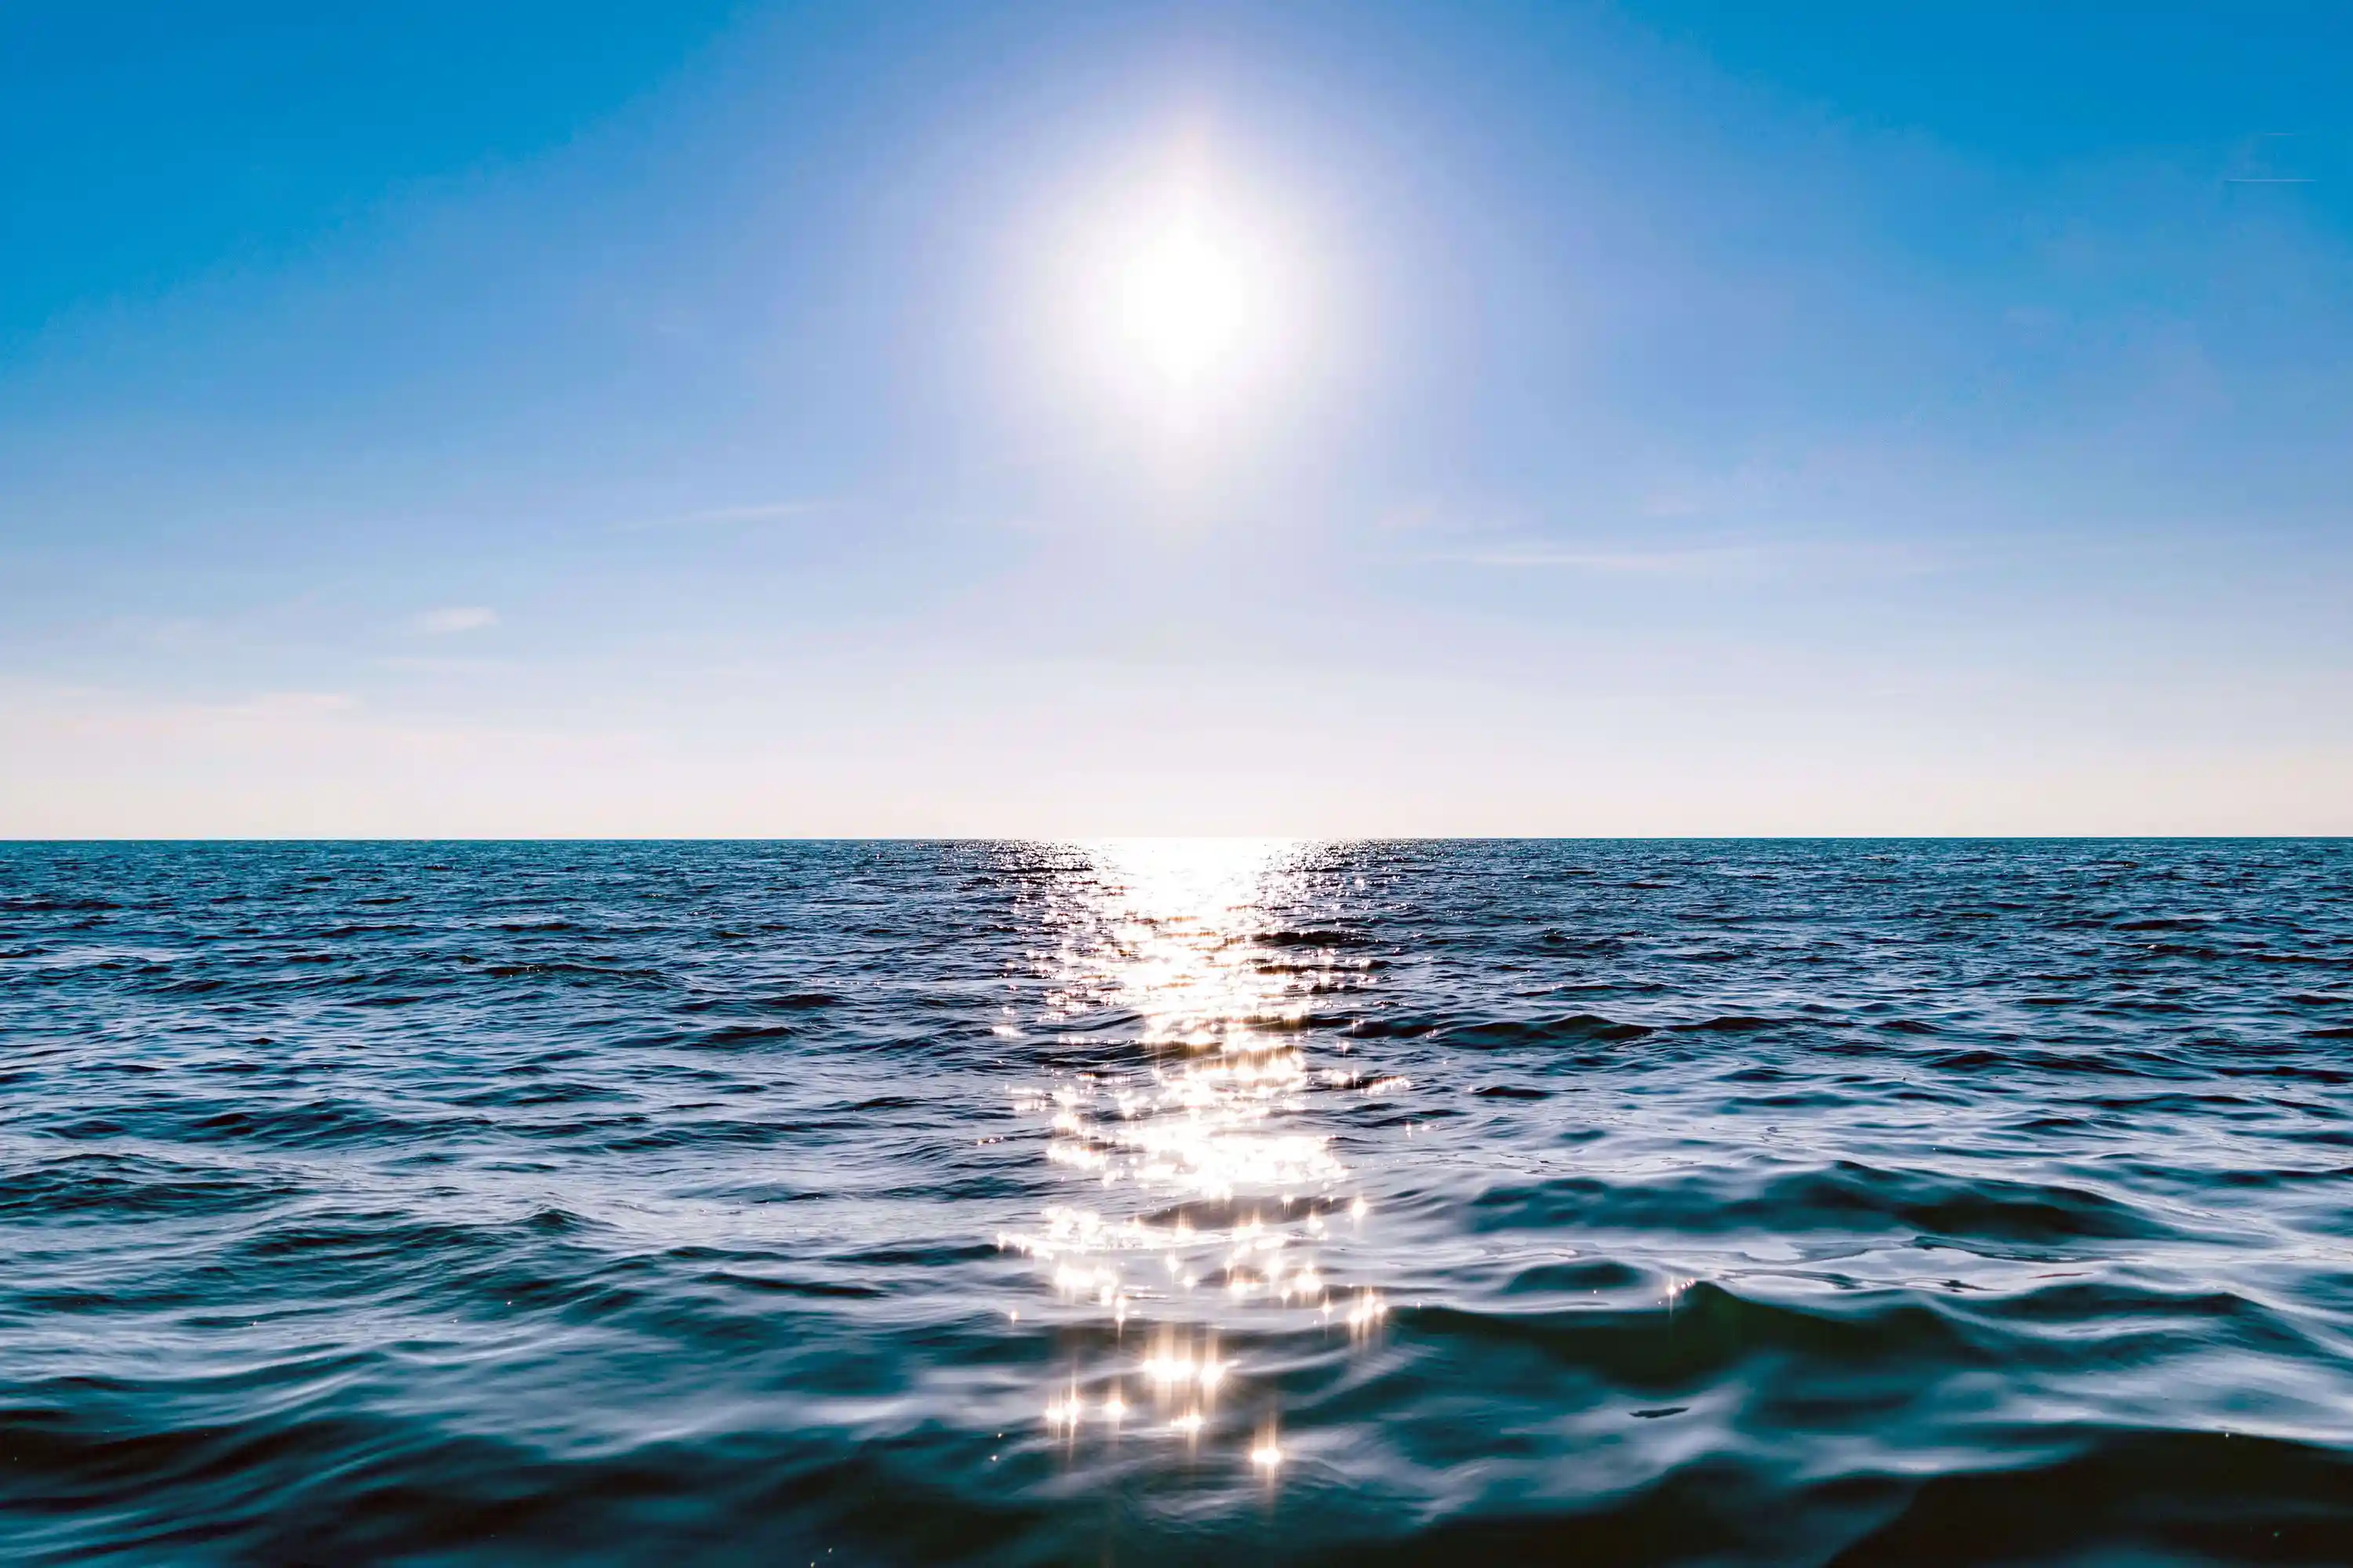
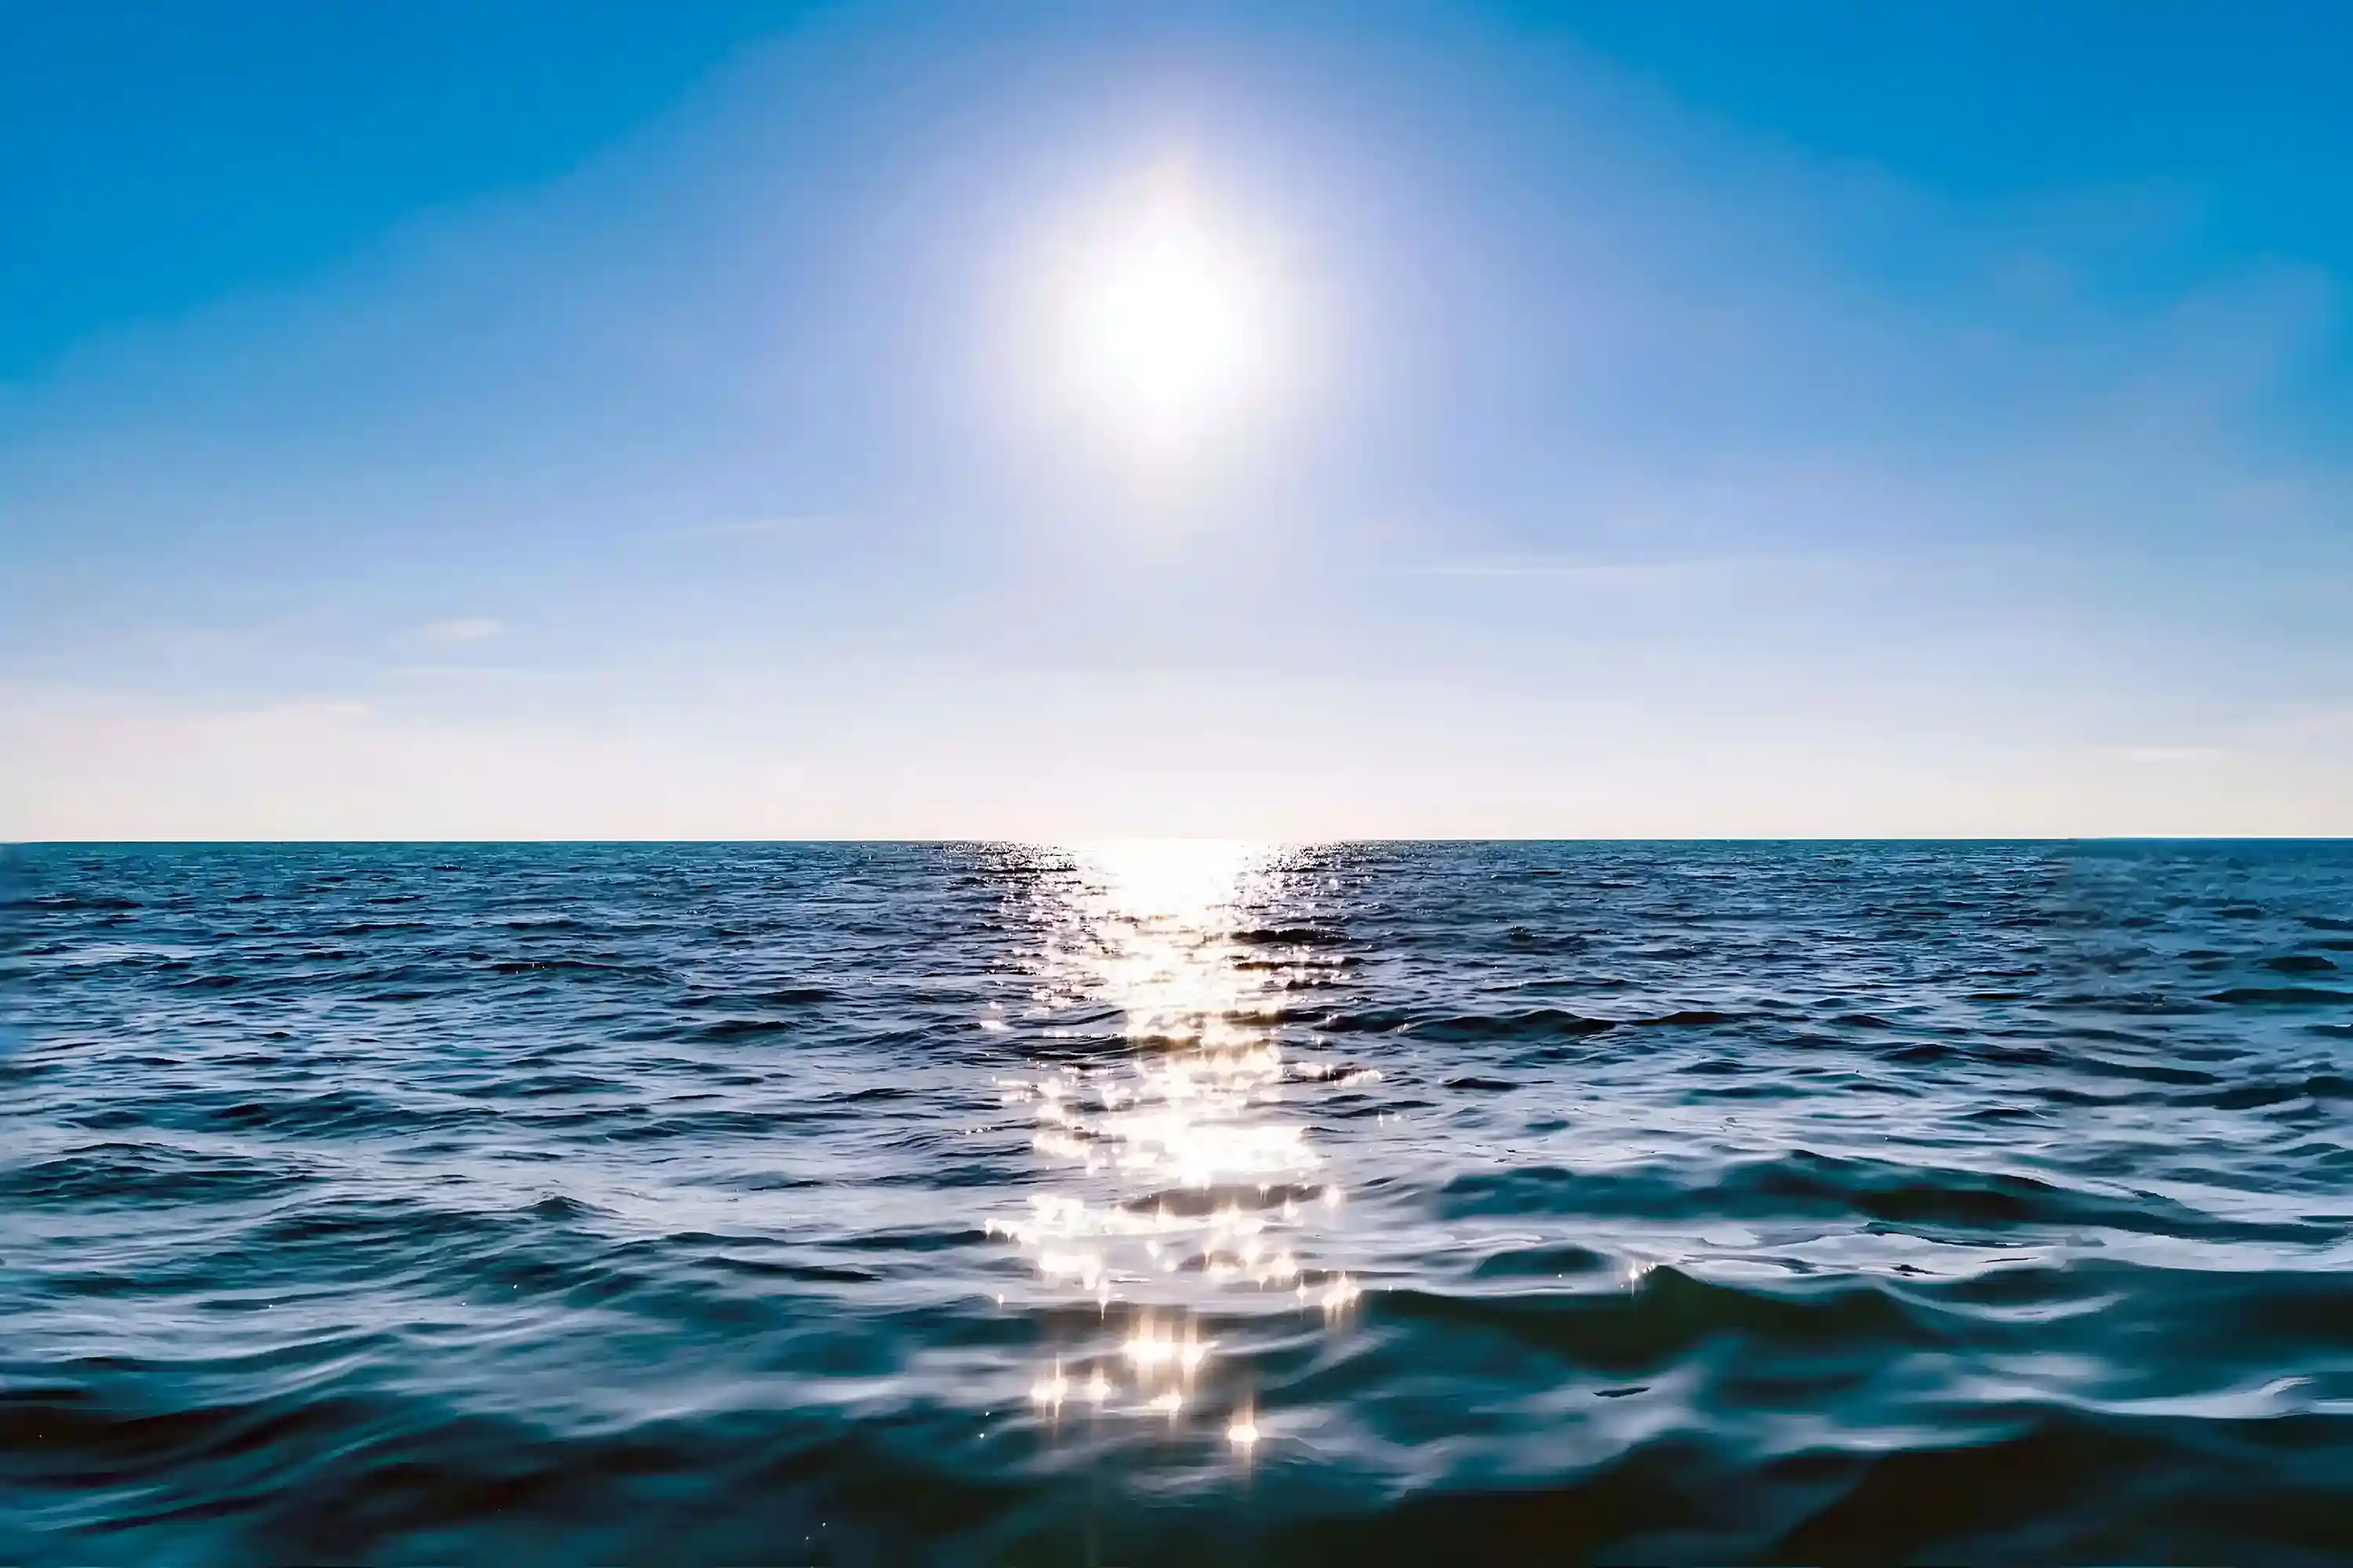
replaced Header day image with enahnced version to fix obvious photoshopping on right

diff --git a/src/components/EditDeleteProjectModal/EditDeleteProjectModal.jsx b/src/components/EditDeleteProjectModal/EditDeleteProjectModal.jsx
@@ -84,14 +84,6 @@ const EditDeleteProjectModal = ({
 
       setProjectsData(c => c.filter((summary) => summary.project_id !== projectID));
 
-      // setLightBoxImages(c => 
-      //   c.filter((image) => image.img_id !== projectID).map(({ img_id, img_alt, img_src }) => ({
-      //     img_id,
-      //     img_alt,
-      //     img_src
-      //   }))
-      // );
-
       toast.success(message);  
     } catch(error) {
       console.error('Error deleting project:', error);
